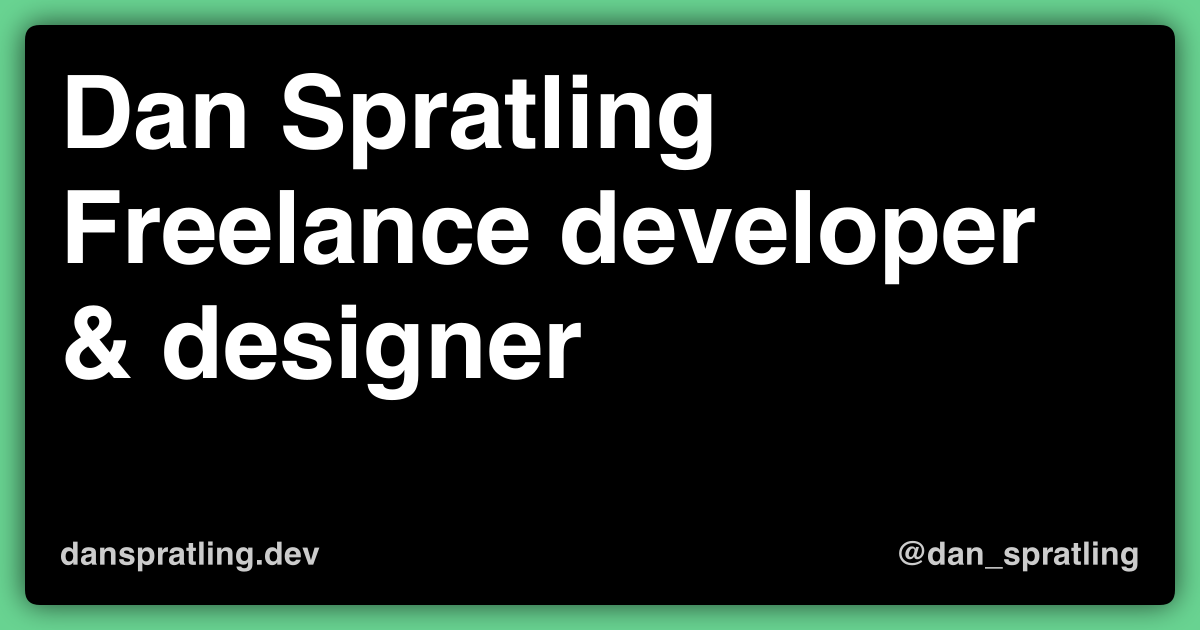
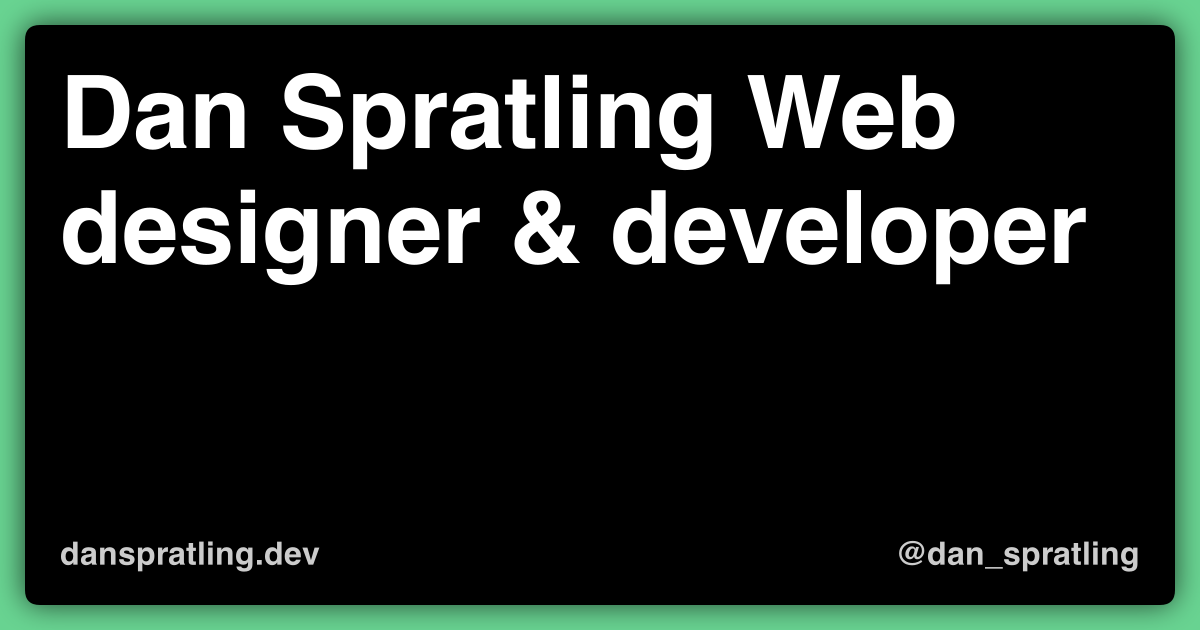
Updates SEO image title

Changed region(s): [[0.0308, 0.3016, 0.925, 0.4524], [0.0308, 0.4825, 0.4933, 0.6333], [0.6167, 0.1206, 0.8017, 0.2413]]

diff --git a/gatsby-node.js b/gatsby-node.js
@@ -3,7 +3,7 @@ const generateImage = require('./functions/socialImage')
 
 //Build our social media (twitter/og) images using canvas
 generateImage({
-  title: 'Dan Spratling Freelance developer & designer',
+  title: 'Dan Spratling Web designer & developer',
   slug: 'home',
 })
 generateImage({
